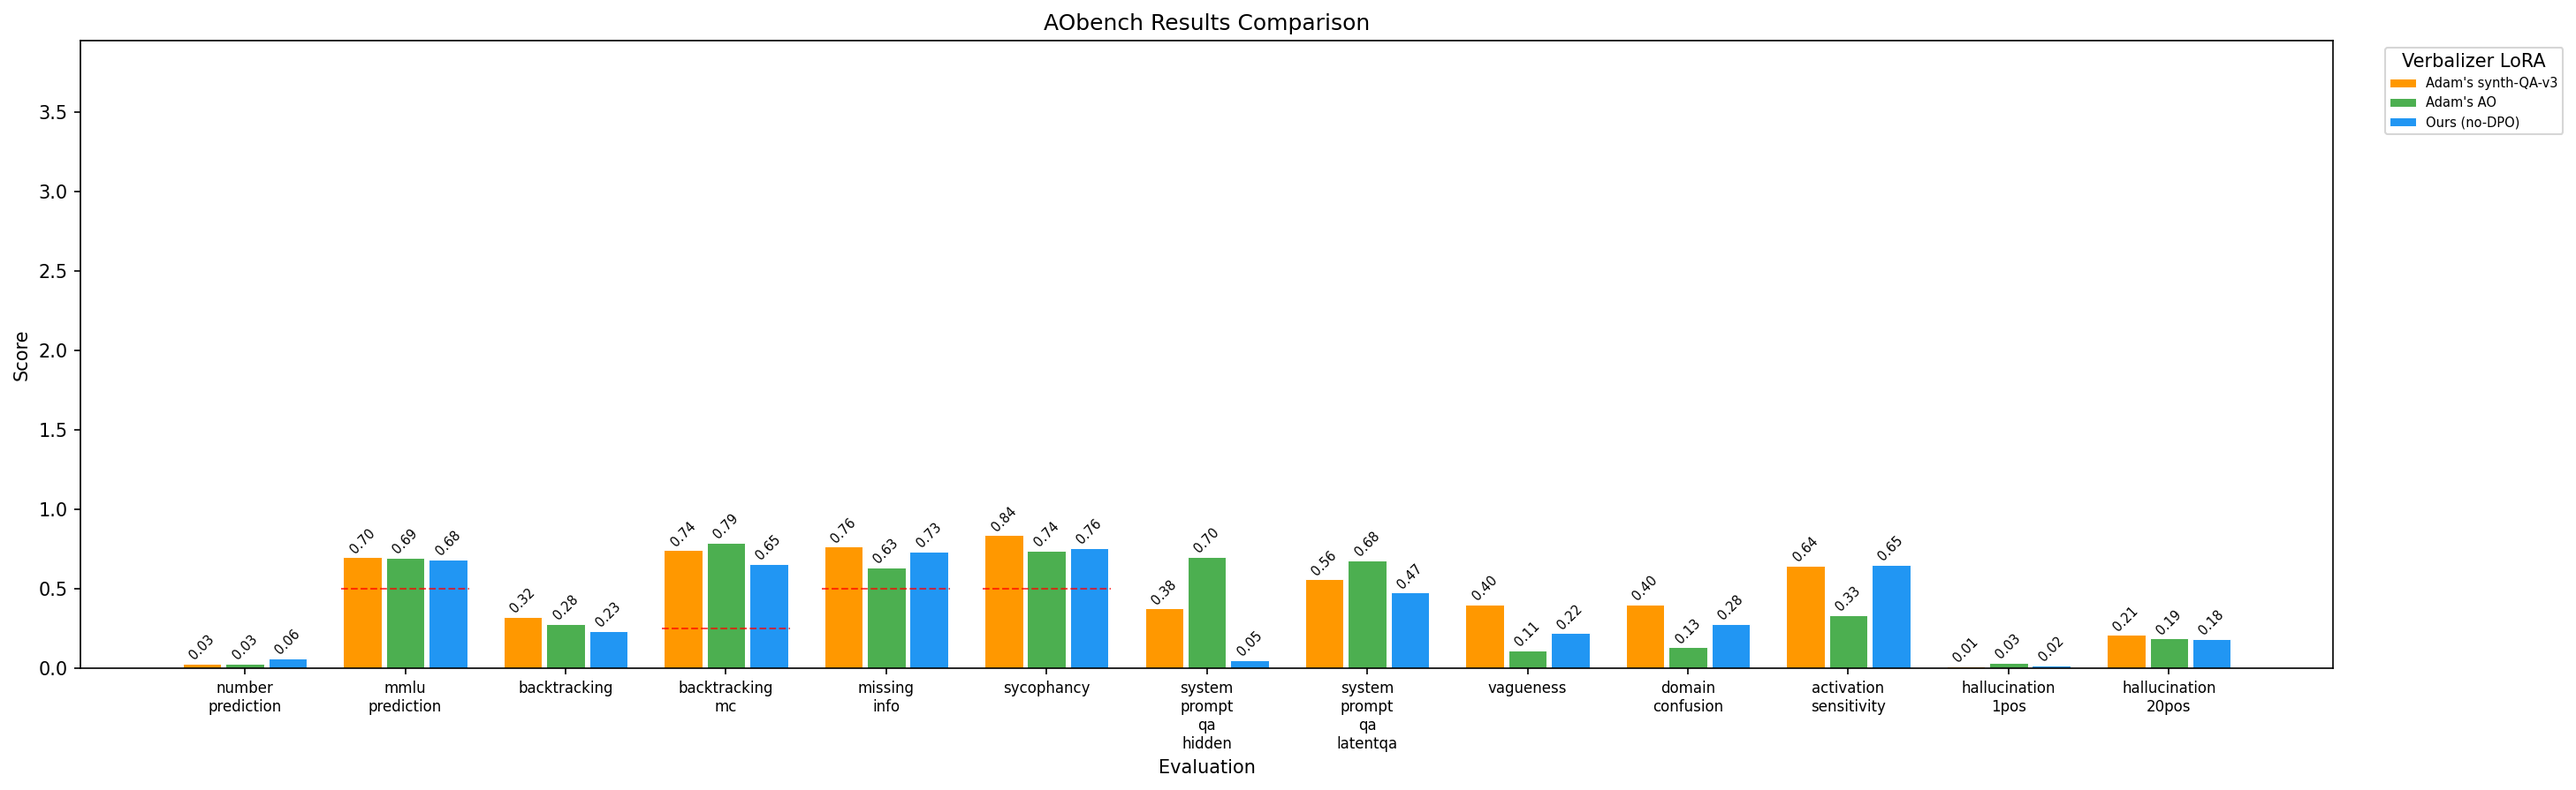
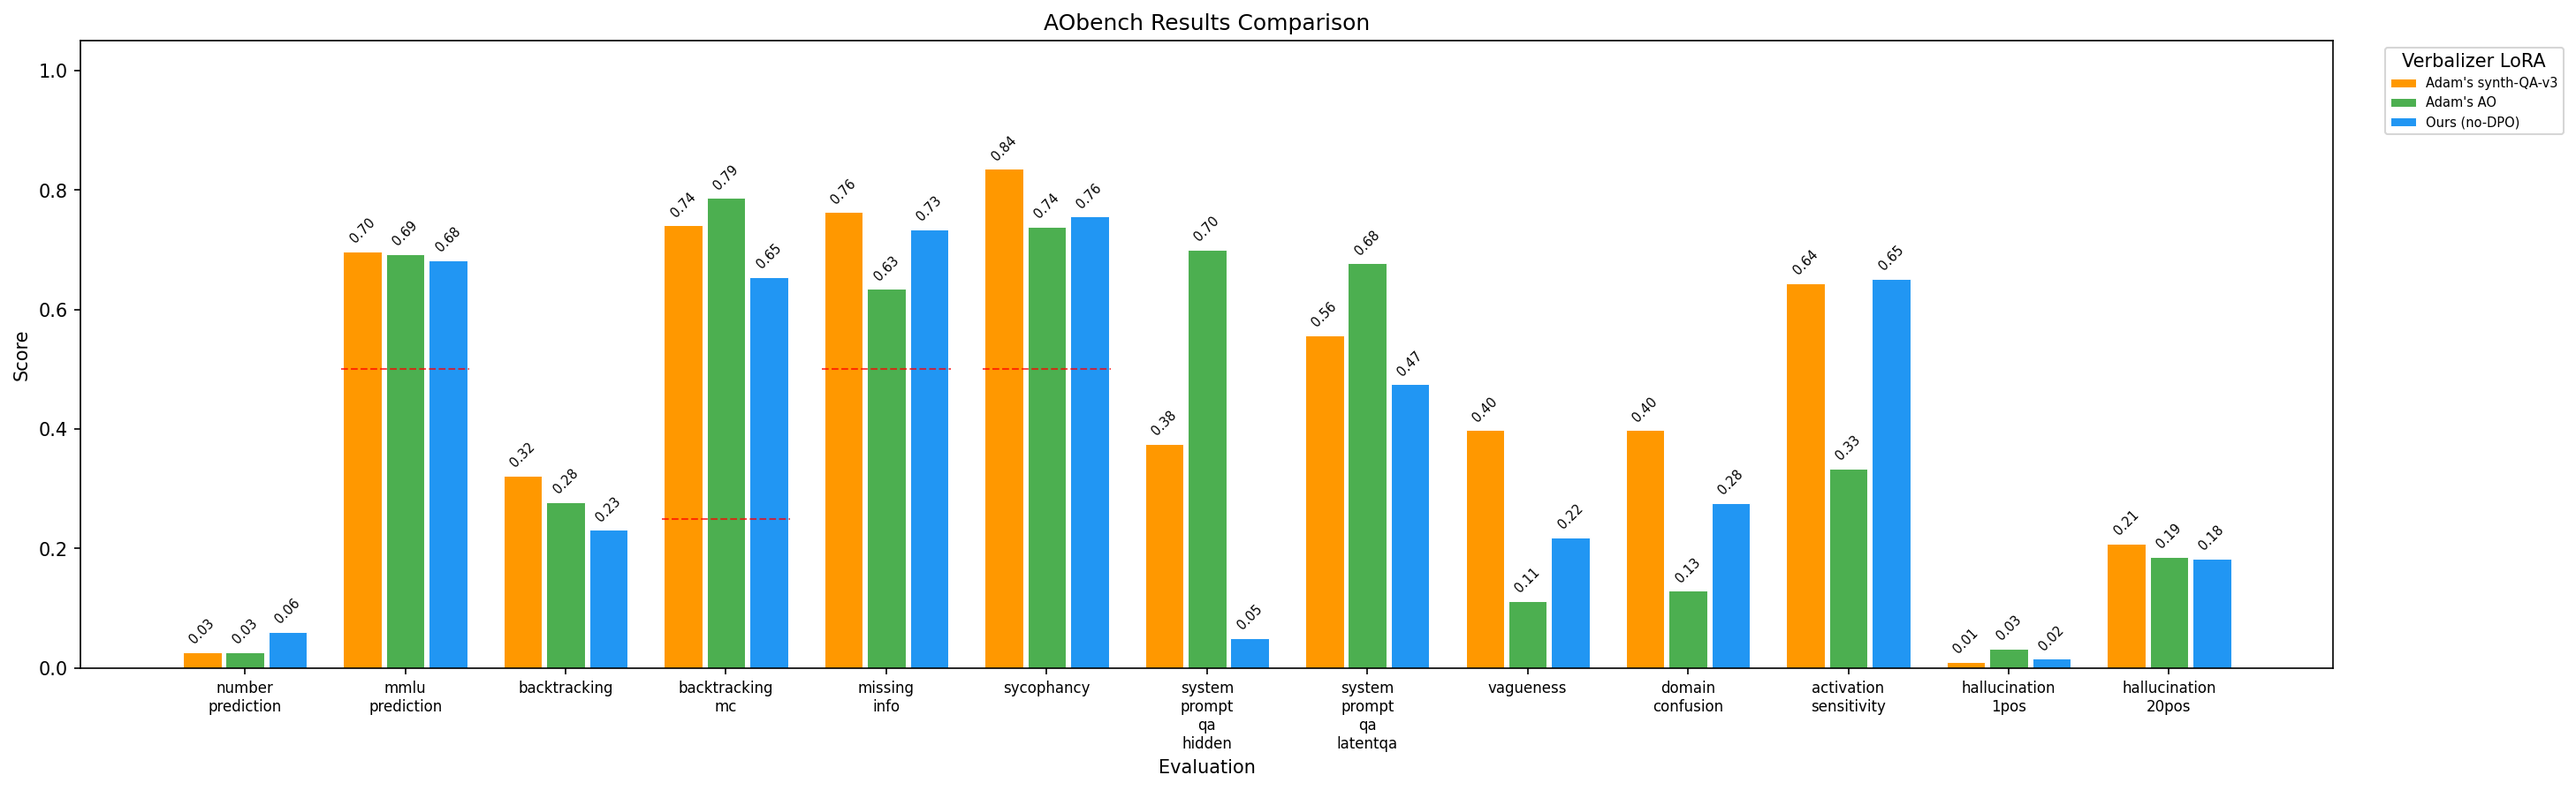
AObench: fix y-axis to 0-1 range

diff --git a/AObench/report.py b/AObench/report.py
@@ -245,10 +245,7 @@ def plot_comparison_bar_chart(
         bbox_to_anchor=(1.02, 1), loc="upper left", fontsize=7,
         title="Verbalizer LoRA",
     )
-    ax.set_ylim(0, min(max(
-        max(v for metrics in eval_results.values() for v in metrics.values()) + 0.15,
-        0.5,
-    ), 5.5))
+    ax.set_ylim(0, 1.05)
 
     plt.tight_layout()
     os.makedirs(os.path.dirname(output_path) or ".", exist_ok=True)
